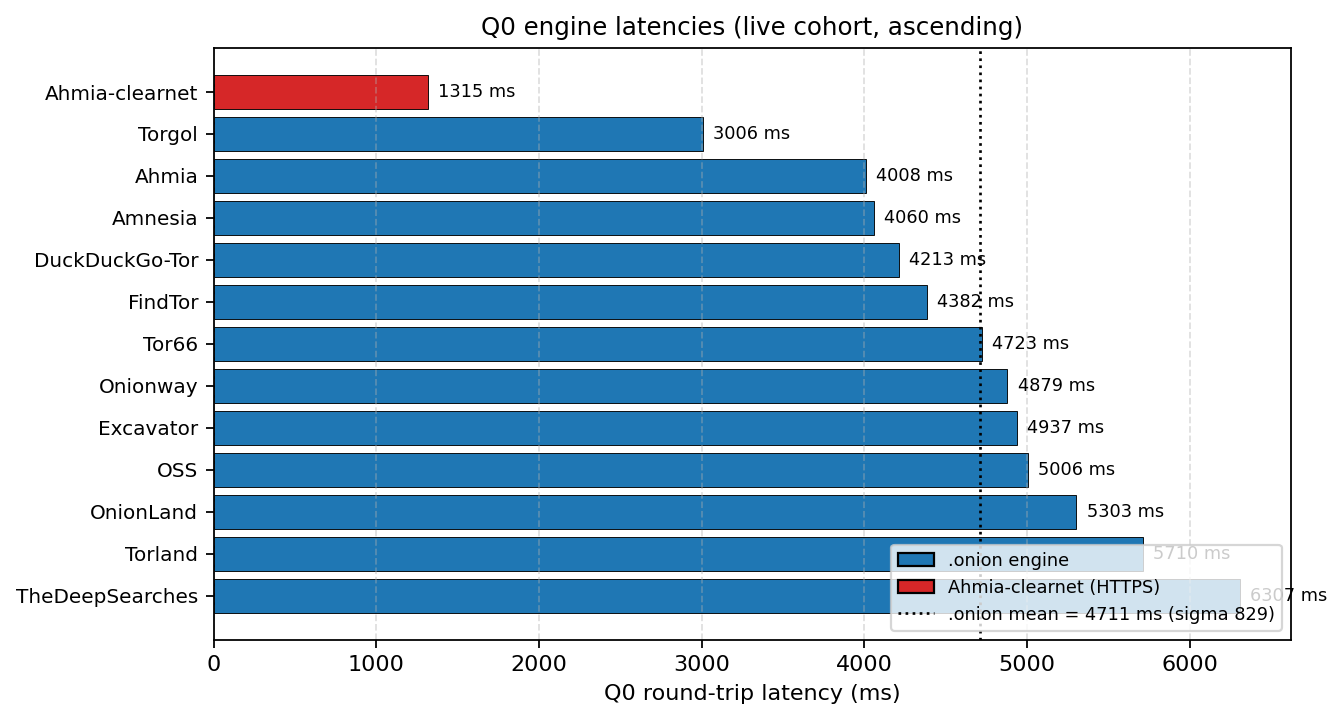
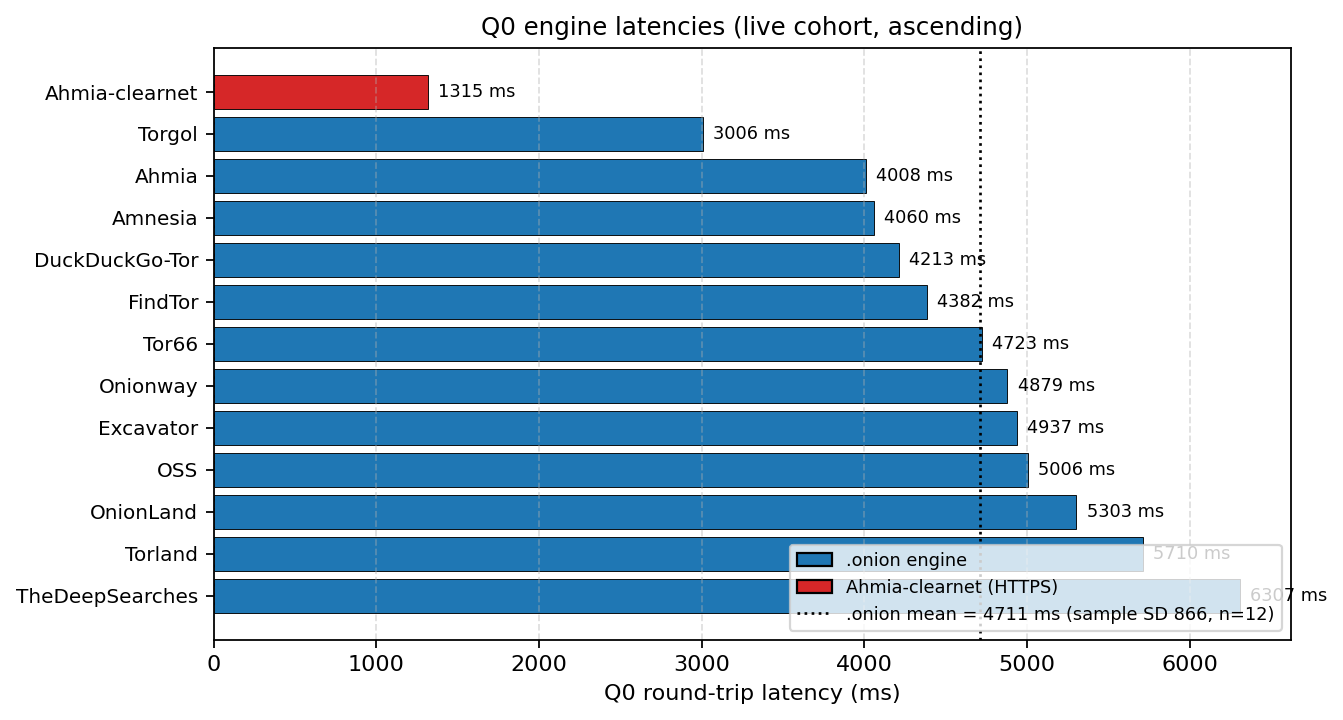
darkweb: regenerate Figure 2 with sample SD label (n-1)
The bar-chart figure now displays the sample standard deviation
(866 ms, n=12) rather than the population SD (829 ms). Aligns the
figure annotation with the corresponding paragraph in the paper.

Changed region(s): [[0.58, 0.7333, 0.9464, 0.8861]]

diff --git a/papers/darkweb-search-engine-audit/scripts/make_fig2_latency_distribution.py b/papers/darkweb-search-engine-audit/scripts/make_fig2_latency_distribution.py
@@ -7,35 +7,29 @@ import matplotlib.pyplot as plt
 data = json.load(open(r'C:\tmp\darkweb-audit\test_results\q00_precheck.json', encoding='utf-8'))
 engines = data['result']['engines']
 live = [(e['name'], e['latency_ms']) for e in engines if e.get('status') == 'up' and e.get('latency_ms')]
-# Sort ascending by latency
 live.sort(key=lambda x: x[1])
-
 names = [n for n, _ in live]
 lats  = [l for _, l in live]
-
-# Colour: clearnet (Ahmia-clearnet) different from .onion
 colors = ['#1f77b4' if n != 'Ahmia-clearnet' else '#d62728' for n in names]
 
 fig, ax = plt.subplots(figsize=(8.5, 4.6), dpi=160)
-bars = ax.barh(range(len(names)), lats, color=colors, edgecolor='black', linewidth=0.4)
+ax.barh(range(len(names)), lats, color=colors, edgecolor='black', linewidth=0.4)
 ax.set_yticks(range(len(names)))
 ax.set_yticklabels(names, fontsize=9)
 ax.set_xlabel('Q0 round-trip latency (ms)', fontsize=10)
 ax.set_title('Q0 engine latencies (live cohort, ascending)', fontsize=11)
-ax.invert_yaxis()  # fastest at top
+ax.invert_yaxis()
 ax.grid(axis='x', linestyle='--', alpha=0.4)
-
-# Annotate value at end of each bar
 for i, v in enumerate(lats):
     ax.text(v + max(lats) * 0.01, i, f'{v} ms', va='center', fontsize=8)
 
-# Mean line for .onion subset
 onion_lats = [l for n, l in live if n != 'Ahmia-clearnet']
 mean_onion = sum(onion_lats) / len(onion_lats)
+n = len(onion_lats)
+sample_sd = (sum((x - mean_onion) ** 2 for x in onion_lats) / (n - 1)) ** 0.5
 ax.axvline(mean_onion, color='black', linestyle=':', linewidth=1.2,
-           label=f'.onion mean = {mean_onion:.0f} ms (sigma {(sum((x-mean_onion)**2 for x in onion_lats)/len(onion_lats))**0.5:.0f})')
+           label=f'.onion mean = {mean_onion:.0f} ms (sample SD {sample_sd:.0f}, n={n})')
 
-# Legend
 from matplotlib.patches import Patch
 legend_items = [
     Patch(facecolor='#1f77b4', edgecolor='black', label='.onion engine'),
@@ -46,5 +40,4 @@ ax.legend(handles=legend_items + [ax.lines[0]], loc='lower right', fontsize=8)
 plt.tight_layout()
 out = r'E:\Bildiri\01-darkweb-search-engine-benchmark\figures\fig2_latency_distribution.png'
 plt.savefig(out, bbox_inches='tight', dpi=160)
-print(f'Saved: {out}')
-print(f'Mean (.onion): {mean_onion:.1f} ms, sigma: {(sum((x-mean_onion)**2 for x in onion_lats)/len(onion_lats))**0.5:.1f} ms, n={len(onion_lats)}')
+print(f'mean={mean_onion:.1f}, sample_sd={sample_sd:.1f}, n={n}, saved={out}')
